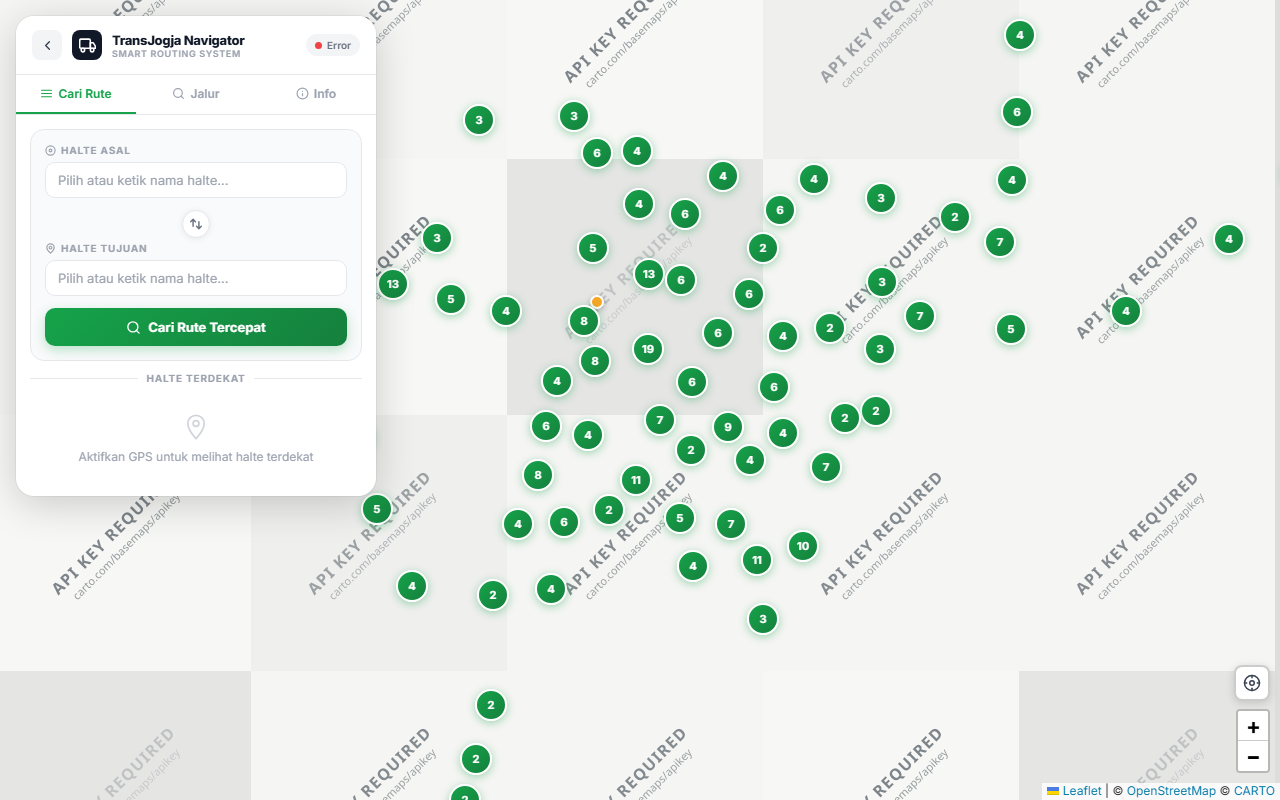
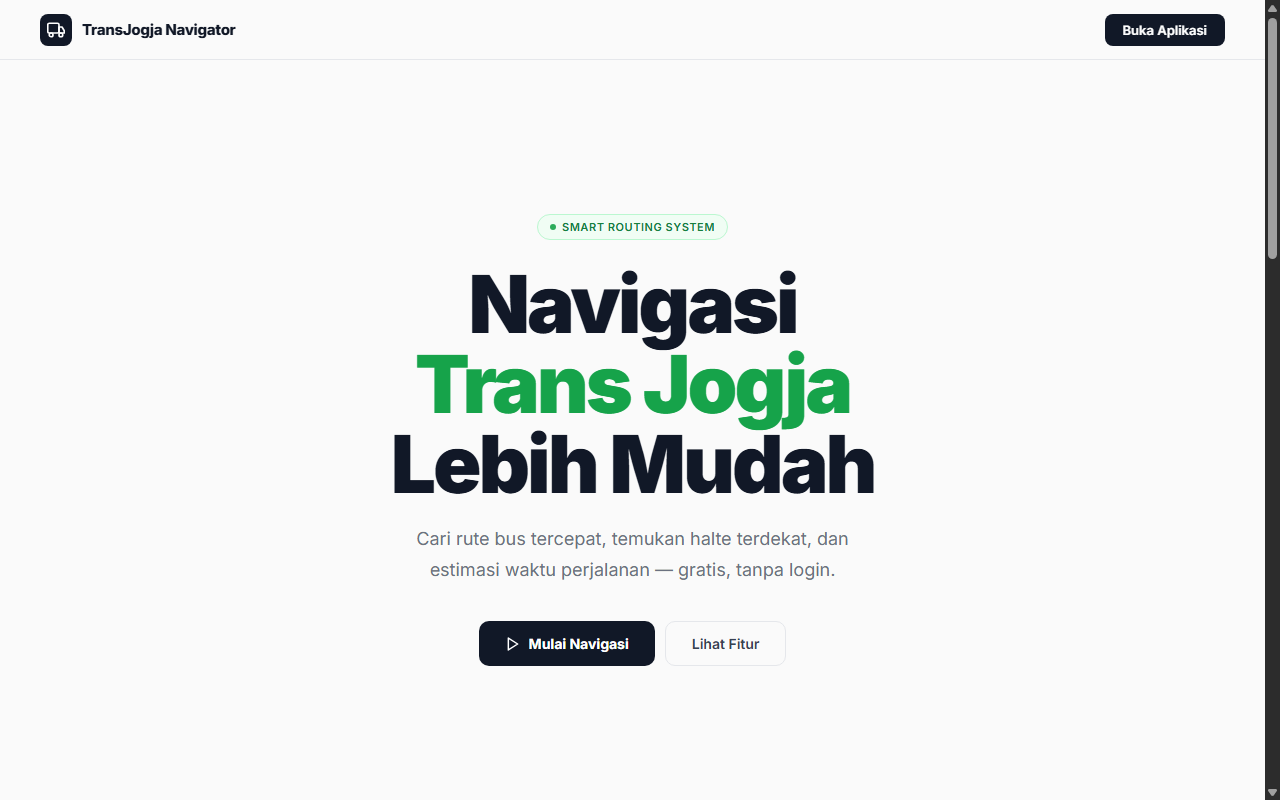
feat: perbarui koleksi program interaktif, rekam jejak atletik, dan pengalaman kepanitiaan CV terbaru

diff --git a/components/Works.tsx b/components/Works.tsx
@@ -13,6 +13,7 @@ interface ProjectItem {
   link?: string;
   repoLink?: string;
   image?: string | null;
+  features?: string[];
 }
 
 const projects: ProjectItem[] = [
@@ -27,10 +28,24 @@ const projects: ProjectItem[] = [
     link: "https://github.com/vanoathalla/presensi-magang",
     repoLink: "https://github.com/vanoathalla/presensi-magang",
     image: "/projects/sip-magang.png",
+    features: ["Validasi Radius GPS Real-time", "Multi-role Admin & Peserta", "Rekapitulasi Data Kehadiran Otomatis"],
+  },
+  {
+    id: "transjogja",
+    index: "02",
+    title: "Trans Jogja Navigator — Rute & Halte Bus",
+    tags: ["JavaScript", "Leaflet GIS", "Geolocation", "Web App"],
+    description:
+      "Sistem navigasi cerdas berbasis web untuk memandu pengguna Trans Jogja keliling kota. Mendeteksi halte terdekat berdasarkan koordinat GPS perangkat secara instan dan menampilkan rute tercepat antar koridor tanpa perlu login atau instalasi aplikasi rumit. Sudah live dan digunakan publik.",
+    year: "2024",
+    link: "https://transjogjanavigator.vercel.app",
+    repoLink: "https://github.com/vanoathalla/transjogja-navigator",
+    image: null,
+    features: ["Pencarian Halte Terdekat via GPS", "Navigasi Antar Koridor Cepat", "Ringan & Siap Pakai Tanpa Login"],
   },
   {
     id: "po-in-aja",
-    index: "02",
+    index: "03",
     title: "PO-in Aja — Pre-Order Jersey & Merchandise Platform",
     tags: ["Laravel 11", "Livewire 3", "Tailwind CSS", "MySQL"],
     description:
@@ -39,18 +54,7 @@ const projects: ProjectItem[] = [
     link: "https://github.com/vanoathalla/po-in-aja",
     repoLink: "https://github.com/vanoathalla/po-in-aja",
     image: null,
-  },
-  {
-    id: "terserah-app",
-    index: "03",
-    title: "TERSERAH! — Tongkrongan Decision Roulette",
-    tags: ["SvelteKit", "TypeScript", "Tailwind CSS", "Railway"],
-    description:
-      "Solusi pemecah kebuntuan circle tongkrongan saat bingung menentukan tempat makan atau destinasi kumpul. Dibangun menggunakan SvelteKit yang sangat ringan dan cepat, lengkap dengan animasi roulette putar acak dan opsi kustomisasi daftar pilihan.",
-    year: "2024",
-    link: "https://terserah-app-production.up.railway.app",
-    repoLink: "https://github.com/vanoathalla/terserah-app",
-    image: "/projects/terserah.png",
+    features: ["Sistem Pre-order & Custom Name", "Dashboard Rekapitulasi Otomatis", "Desain Bersih iOS Aesthetic"],
   },
   {
     id: "aplikasi-perminyakan",
@@ -62,11 +66,25 @@ const projects: ProjectItem[] = [
     year: "2024",
     link: "https://github.com/vanoathalla/aplikasi-perminyakan",
     repoLink: "https://github.com/vanoathalla/aplikasi-perminyakan",
-    image: "/projects/perminyakan.png",
+    image: null,
+    features: ["Kalkulasi Decline Rate & Produksi", "Proyeksi Cash Flow 20 Tahun", "Visualisasi Grafik Finansial Interaktif"],
+  },
+  {
+    id: "terserah-app",
+    index: "05",
+    title: "TERSERAH! — Tongkrongan Decision Roulette",
+    tags: ["SvelteKit", "TypeScript", "Tailwind CSS", "Railway"],
+    description:
+      "Solusi pemecah kebuntuan circle tongkrongan saat bingung menentukan tempat makan atau destinasi kumpul. Dibangun menggunakan SvelteKit yang sangat ringan dan cepat, lengkap dengan animasi roulette putar acak dan opsi kustomisasi daftar pilihan.",
+    year: "2024",
+    link: "https://terserah-app-production.up.railway.app",
+    repoLink: "https://github.com/vanoathalla/terserah-app",
+    image: "/projects/terserah.png",
+    features: ["Animasi Putar Roulette Dinamis", "Input Kategori Kuliner & Tongkrongan", "Deployed Live di Cloud Railway"],
   },
   {
     id: "performa-pemain",
-    index: "05",
+    index: "06",
     title: "Klasifikasi Performa Pemain Sepak Bola — Random Forest",
     tags: ["Python", "Machine Learning", "Scikit-Learn", "Pandas"],
     description:
@@ -75,18 +93,7 @@ const projects: ProjectItem[] = [
     link: "https://github.com/vanoathalla/performa-pemain",
     repoLink: "https://github.com/vanoathalla/performa-pemain",
     image: "/projects/performa-pemain.png",
-  },
-  {
-    id: "transjogja",
-    index: "06",
-    title: "Trans Jogja Navigator — Rute & Halte Bus",
-    tags: ["JavaScript", "Leaflet GIS", "Geolocation", "Web App"],
-    description:
-      "Sistem navigasi cerdas berbasis web untuk memandu pengguna Trans Jogja keliling kota. Mendeteksi halte terdekat berdasarkan koordinat GPS perangkat dan menampilkan rute tercepat antar koridor tanpa perlu login atau instalasi aplikasi.",
-    year: "2024",
-    link: "https://transjogjanavigator.vercel.app",
-    repoLink: "https://github.com/vanoathalla/transjogja-navigator",
-    image: "/projects/transjogja.png",
+    features: ["Dataset Statistik PSS Sleman 2024/2025", "Klasifikasi Algoritma Random Forest", "Visualisasi Confusion Matrix & Evaluasi"],
   },
   {
     id: "mykarisma",
@@ -99,6 +106,7 @@ const projects: ProjectItem[] = [
     link: "https://github.com/vanoathalla/mykarisma",
     repoLink: "https://github.com/vanoathalla/mykarisma",
     image: "/projects/mykarisma.png",
+    features: ["Pencatatan Kas Lokal SQLite", "Jadwal & Agenda Organisasi", "Integrasi Peta Lokasi Acara"],
   },
   {
     id: "jgn-lupa-app",
@@ -111,6 +119,7 @@ const projects: ProjectItem[] = [
     link: "https://github.com/vanoathalla/jgn-lupa-app",
     repoLink: "https://github.com/vanoathalla/jgn-lupa-app",
     image: null,
+    features: ["Multi-platform Desktop & Android", "Background Alarm & Notifikasi", "Sinkronisasi To-Do List Harian"],
   },
   {
     id: "webcraft-pos",
@@ -123,6 +132,7 @@ const projects: ProjectItem[] = [
     link: "https://website-kasir.infinityfreeapp.com",
     repoLink: "https://github.com/vanoathalla/webcraft-pos",
     image: "/projects/webcraft-pos.png",
+    features: ["Transaksi Kasir Instan", "Manajemen Inventaris Stok Otomatis", "Pencetakan Struk Pembayaran"],
   },
   {
     id: "counselink",
@@ -135,6 +145,7 @@ const projects: ProjectItem[] = [
     link: "https://github.com/vanoathalla/counselink",
     repoLink: "https://github.com/vanoathalla/counselink",
     image: "/projects/counselink.png",
+    features: ["Booking Jadwal Konselor Online", "Manajemen Rekam Catatan Konseling", "Portal Multi-role Pasien & Konselor"],
   },
   {
     id: "batik-gumregah",
@@ -147,6 +158,7 @@ const projects: ProjectItem[] = [
     link: "https://batik-gumregah.vercel.app",
     repoLink: "https://github.com/vanoathalla/batik-gumregah",
     image: "/projects/batik-gumregah.png",
+    features: ["Katalog Visual Kain Batik", "Optimasi Tampilan Mobile-First", "Informasi Kontak Langsung Pengrajin"],
   },
   {
     id: "aturbrat",
@@ -159,6 +171,7 @@ const projects: ProjectItem[] = [
     link: "https://aturbrat-kobrat.vercel.app",
     repoLink: "https://github.com/vanoathalla/aturbrat-kobrat",
     image: "/projects/aturbrat.png",
+    features: ["Pembagian Jadwal & Piket Tim", "Pelacakan Progres Tugas Harian", "Antarmuka Ringan React + Vite"],
   },
 ];
 
@@ -176,7 +189,7 @@ export default function Works() {
             entry.target
               .querySelectorAll<HTMLElement>(".fade-up")
               .forEach((node, i) => {
-                setTimeout(() => node.classList.add("visible"), i * 70);
+                setTimeout(() => node.classList.add("visible"), i * 65);
               });
             observer.unobserve(entry.target);
           }
@@ -312,7 +325,7 @@ export default function Works() {
                       className="overflow-hidden bg-(--color-surface)/40 border-t border-(--color-border)"
                     >
                       <div className="p-6 md:p-10 grid grid-cols-1 lg:grid-cols-[1.2fr_1fr] gap-8 md:gap-12 items-start">
-                        {/* Kolom Visual (Gambar jika tersedia, atau info showcase) */}
+                        {/* Kolom Visual (Gambar jika ada, atau Card Arsitektur Bersih jika null) */}
                         <div>
                           {project.image ? (
                             <div className="relative aspect-[16/10] overflow-hidden rounded-xl border border-(--color-border) bg-(--color-surface-soft) shadow-md group/img">
@@ -324,28 +337,34 @@ export default function Works() {
                               />
                             </div>
                           ) : (
-                            <div className="aspect-[16/10] rounded-xl border border-(--color-border) bg-(--color-base) p-8 flex flex-col justify-between">
+                            <div className="aspect-[16/10] rounded-xl border border-(--color-border) bg-(--color-base) p-6 md:p-8 flex flex-col justify-between shadow-sm">
                               <div>
-                                <span className="font-sans text-[11px] tracking-widest uppercase text-(--color-accent) block mb-2">
-                                  Proyek Terverifikasi
-                                </span>
+                                <div className="flex items-center gap-2 mb-3">
+                                  <span className="w-2 h-2 rounded-full bg-(--color-accent)" />
+                                  <span className="font-sans text-[11px] tracking-widest uppercase text-(--color-accent)">
+                                    Arsitektur &amp; Modul Proyek
+                                  </span>
+                                </div>
                                 <h4 className="font-display text-2xl text-(--color-text-primary) mb-3">
                                   {project.title}
                                 </h4>
                                 <p className="font-sans font-light text-sm text-(--color-text-muted) leading-relaxed">
-                                  Kode sumber dan arsitektur modul lengkap tersedia secara publik di repository GitHub.
+                                  Proyek dibangun dengan arsitektur kode terstruktur, modular, dan teruji langsung di lingkungan produksi/studi kasus.
                                 </p>
                               </div>
-                              <div className="flex flex-wrap gap-2 pt-4">
-                                {project.tags.map((tag) => (
-                                  <span
-                                    key={tag}
-                                    className="font-sans text-[10px] tracking-wider uppercase text-(--color-text-muted) bg-(--color-surface) px-2.5 py-1 rounded"
-                                  >
-                                    {tag}
-                                  </span>
-                                ))}
-                              </div>
+
+                              {project.features && (
+                                <div className="space-y-1.5 pt-4 border-t border-(--color-border)/50">
+                                  {project.features.map((feat, fIdx) => (
+                                    <div key={fIdx} className="flex items-center gap-2">
+                                      <span className="text-(--color-accent) text-xs">✓</span>
+                                      <span className="font-sans text-[12px] text-(--color-text-primary)">
+                                        {feat}
+                                      </span>
+                                    </div>
+                                  ))}
+                                </div>
+                              )}
                             </div>
                           )}
                         </div>
@@ -408,7 +427,7 @@ export default function Works() {
                               >
                                 Source Code GitHub
                                 <svg width="12" height="12" viewBox="0 0 12 12" fill="none" aria-hidden="true">
-                                  <path d="M2 10L10 2M10 2H4M10 2V8" stroke="currentColor" strokeWidth="1.3" strokeLinecap="round" strokeLinejoin="round"/>
+                                  <path d="M2 10L10 2H4M10 2V8" stroke="currentColor" strokeWidth="1.3" strokeLinecap="round" strokeLinejoin="round"/>
                                 </svg>
                               </a>
                             )}

diff --git a/components/Skills.tsx b/components/Skills.tsx
@@ -48,9 +48,23 @@ const experiences: ExperienceItem[] = [
     ],
   },
   {
+    id: "veteran-cup",
+    role: "Volunteer & Event Guard",
+    org: "Veteran Cup Festival 2025 & 2026 — UPN “Veteran” Yogyakarta",
+    period: "Sep 2025 & 2026",
+    type: "Volunteer Event Akbar",
+    summary:
+      "Bertindak sebagai guard pengamanan dan operasional crowd management dalam festival olahraga tahunan akbar kampus yang dihadiri ribuan penonton dan mahasiswa.",
+    highlights: [
+      "Mengontrol alur crowd management dan sterilisasi akses masuk pintu utama venue festival.",
+      "Mengawasi keamanan venue pertandingan dan berkoordinasi langsung dengan tim keamanan universitas.",
+      "Sigap mengantisipasi potensi kerumunan, jalur evakuasi, dan situasi darurat selama rangkaian festival berlangsung.",
+    ],
+  },
+  {
     id: "ukm-sepak-bola",
     role: "Staff Divisi Sepak Bola",
-    org: "UKM Sepak Bola UPN &ldquo;Veteran&rdquo; Yogyakarta",
+    org: "UKM Sepak Bola UPN “Veteran” Yogyakarta",
     period: "Jan 2024 – Feb 2025",
     type: "Organisasi Olahraga Kampus",
     summary:
@@ -87,6 +101,20 @@ const experiences: ExperienceItem[] = [
       "Menyelenggarakan sesi latihan bersama futsal dan olahraga rutin bagi mahasiswa Informatika.",
       "Menjadi jembatan koordinasi atlet jurusan untuk kejuaraan tingkat fakultas dan universitas.",
       "Mendukung berbagai agenda internal himpunan dengan semangat kolaboratif.",
+    ],
+  },
+  {
+    id: "thanks-party",
+    role: "Penanggung Jawab Perlengkapan",
+    org: "Thanks Party Teknik Informatika UPNVY",
+    period: "Feb – Mar 2024",
+    type: "Kepanitiaan Jurusan",
+    summary:
+      "Memimpin divisi logistik dalam pengadaan dan kesiapan seluruh peralatan panggung serta kelistrikan acara apresiasi mahasiswa Informatika.",
+    highlights: [
+      "Mengoordinasikan inventarisasi dan kebutuhan perlengkapan panggung serta tata suara lintas divisi.",
+      "Memastikan seluruh kelistrikan, instrumen, dan tata panggung siap pakai tepat waktu dan aman.",
+      "Mengawasi alur bongkar-muat barang dan sterilisasi venue paska acara selesai.",
     ],
   },
   {

diff --git a/components/About.tsx b/components/About.tsx
@@ -64,8 +64,9 @@ export default function About() {
             <p className="fade-up font-sans font-light text-[16px] text-(--color-text-muted) leading-relaxed">
               Jiwa kepemimpinan dari lapangan hijau membawa saya dipercaya memimpin sebagai <strong>Ketua Pelaksana IF CUP 2024</strong> —
               turnamen olahraga bergengsi jurusan Informatika, mengoordinasi puluhan panitia lintas divisi, dan memastikan acara
-              berjalan lancar. Bahkan, kecintaan pada sepak bola ikut menginspirasi proyek teknologi saya, seperti riset machine learning
-              klasifikasi performa pemain PSS Sleman hingga platform pre-order jersey olahraga.
+              berjalan lancar. Pengalaman lapangan ini juga berlanjut saat dipercaya menjadi <strong>Volunteer Guard Veteran Cup Festival (2025 &amp; 2026)</strong> mengawal
+              keamanan dan alur pengunjung festival akbar kampus. Bahkan, kecintaan pada sepak bola turut menginspirasi proyek teknologi saya, seperti riset machine learning
+              klasifikasi performa pemain PSS Sleman hingga platform pre-order jersey PO-in Aja.
             </p>
 
             <p className="fade-up font-sans font-light text-[16px] text-(--color-text-muted) leading-relaxed">
@@ -86,7 +87,7 @@ export default function About() {
               {[
                 { title: "Pendidikan", desc: "S-1 Teknik Informatika, UPN 'Veteran' Yogyakarta (2023)" },
                 { title: "Latar Belakang", desc: "Mantan Atlet Sepak Bola Muda · Kini Penggemar Futsal & Bola" },
-                { title: "Pengalaman Utama", desc: "Ketua Pelaksana IF CUP 2024 · Staff UKM Sepak Bola UPNVY" },
+                { title: "Pengalaman Utama", desc: "Ketua Pelaksana IF CUP 2024 · Volunteer Guard Veteran Cup 2025/2026" },
                 { title: "Fokus Teknis", desc: "Web Development, Mobile App (Flutter), & Data Exploration" },
                 { title: "Domisili", desc: "Yogyakarta, Indonesia" },
               ].map((item) => (
